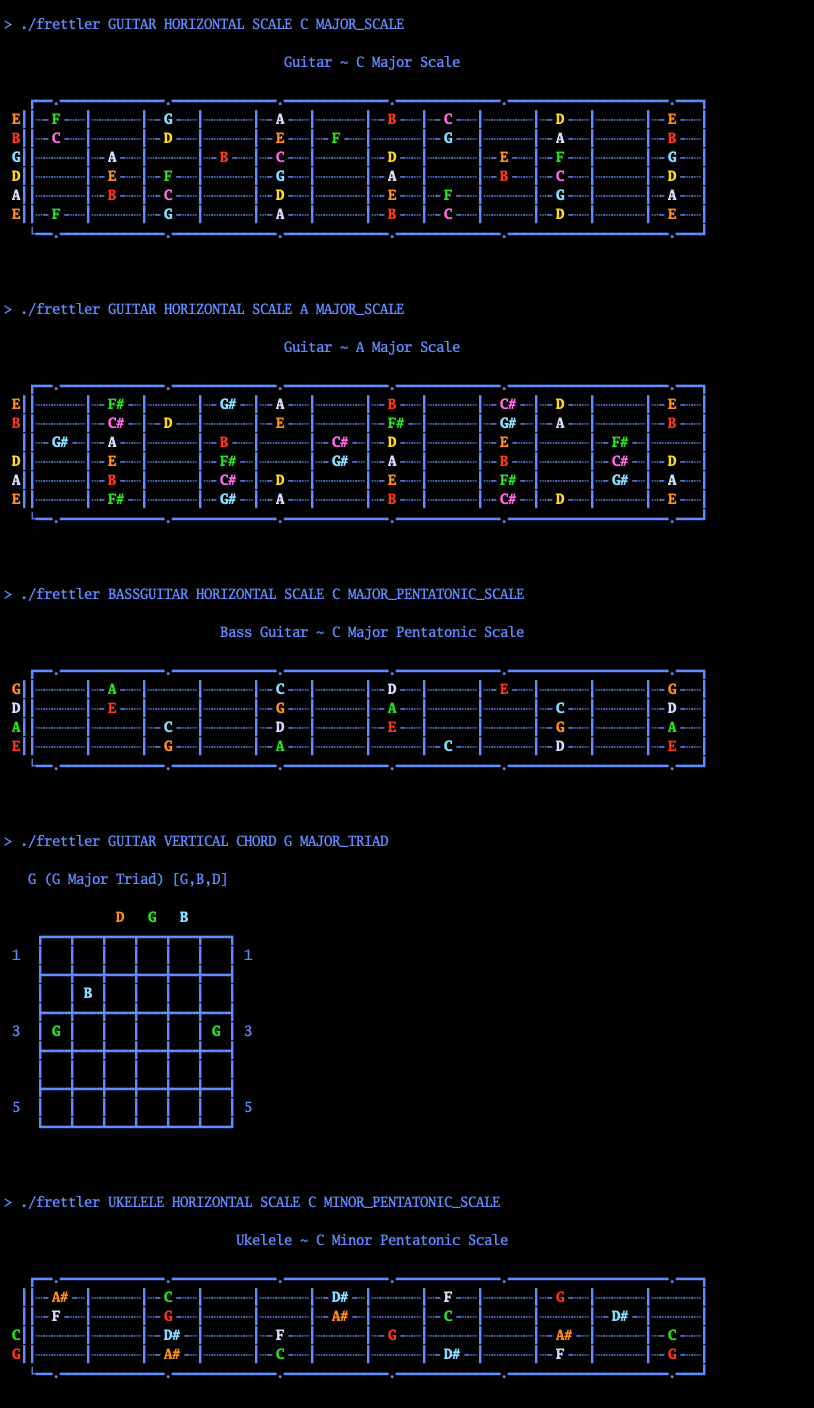
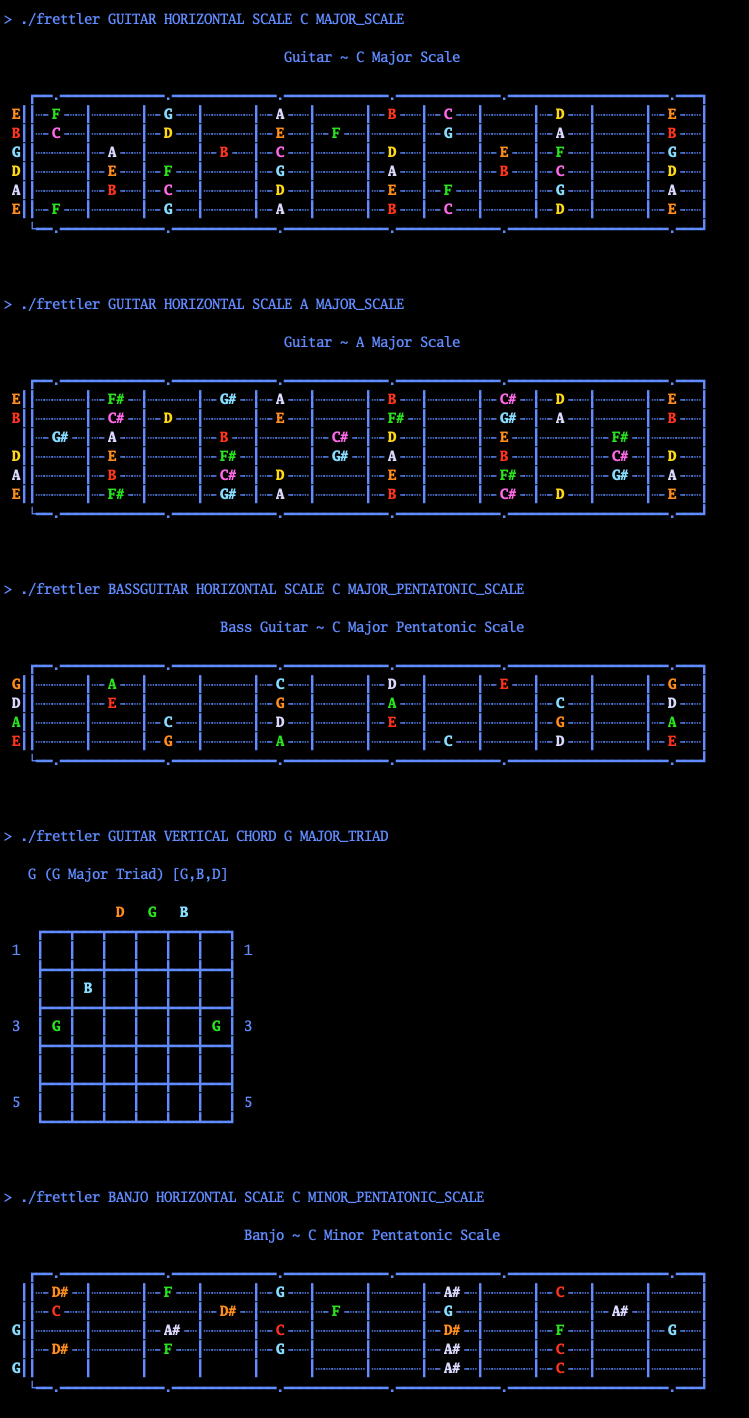
Readme and image

Changed region(s): [[0.0, 0.0, 0.9519, 0.375], [0.0, 0.4062, 0.9519, 0.8125], [0.0, 0.8438, 0.9519, 1.0]]

diff --git a/README.md b/README.md
@@ -25,9 +25,8 @@ Run it using the provided shell wrapper, frettler, ie :
 
 ```
 
-Need to use drop D tuning? just use the optional strings argument '-s D,A,D,G,B,E'
-
-Add the optional chords argument '-c' and frettler will calculate the chords in that key and display each using the VERTICAL chord view.
+- Need to use drop D tuning? just use the optional '--strings/-s' argument '-s D,A,D,G,B,E'
+- Add the optional chords argument '--chords/-c' and frettler will calculate the chords in that key and display each using the VERTICAL chord view.
 
 You can use the strings argument to use any number of strings and using any tuning. 
 To make that easier for say ukelele players, frettler has several alternative instruments, which are
@@ -39,12 +38,14 @@ simply conveniences to avoid having to keep on using the strings argument. ie in
 - MANDOLIN
 - BANJO
 
-Yeah, about that last one - frettler assumes every banjo has equal length strings. The shortened fifth string on most standard banjos is somethng I need to work
-out how to handle. Watch this space.
+(The default BANJO will assume the fifth string starts at the sixth fret - if you want the display for a banjo having all strings full length,
+use the GUITAR with --strings A,B,C,etc. The various instruments, banjo excepted, are just conveniences to avoid using GUITAR with --strings each time.
+To frettler, a fretted instrument is a fretted instrument at the end of the day.)
 
 The chord calculation used in the VERTICAL view is definately a work in progress. It appears to work for standard six string guitar, open string chords, but for anything else,
 take the chord fingerings calculated with a pinch of salt. I already know its calculation for C Major with a seven string guitar is a bit out of whack, 
-and that is probably an indication that it will fall short elsewhere.
+and that is probably an indication that it will fall short elsewhere. Any and all contributions to the rules needed to select the appropriate frets for a chord are welcomed.
+I think it needs to consider the chord interval progression to the higher string when selecting each strings fret candidate? 
 
 Here are some examples :
 
@@ -53,9 +54,6 @@ Here are some examples :
 
 NOTE: the VERTICAL display of SCALE is TBD at this time.
 
-NOTE: the CLI arguments are handled by the Java framework, picocli, added to the codebase in the space of one evening (after actually practising guitar for 2 hours!),
-as well as the maven fat jar executable generation and the maven wrapper for building, and the bash wrappers. 
-This will all no doubt go through some further refinements soon to make it easier to use!
 
 ### Tab Completion
 If you use bash as your shell, frettler can output a tab completion script to use. Just use the following :
@@ -65,22 +63,22 @@ source <(./frettler COMPLETIONS)
 ```
 
 ### Programmatically
-If you want to you can write your own Main class and create a Guitar object, create a Scale or Chord object, create a Guitar and a view for that Guitar
-and then instruct the View to display your chord or object. The API is pretty straightfoward I think, and defaults safely to a standard tuning EADGBE six 
-string guitar etc
+If you want to you can write your own Main class and create one of the FrettedInstrument subtypes, create a Scale or Chord object, create a view for your instrument
+and then instruct the view to display your chord or object. The API is pretty straightfoward I think, and defaults standard tuning for each type of instrument.
+
 Have a look at the GuitarCommand for some examples of usage, look at the constructors of the various classes such as Guitar, Scale, Chord and the ChordView and 
-GuitarView classes, and their public methods.
+FretboardView classes, and their public methods.
 
 ## Engine
 The engine can generate Lists of notes that represent given scales, and can calculate the chords within that scale.
-The engine knows nothing about a guitar, it simply applies music theory to generate Java lists of the notes in scales and chords.
+The engine knows nothing about an instrument, it simply applies music theory to generate Java lists of the notes in scales and chords.
 
 
 ## View
-Currently only console views, each constructed with a Guitar, which take the scale and chord constructs from the engine, and render them
-on that guitars fretboard, up to the 12th fret.
+Currently only console views, each constructed with a FrettedInstrument, which take the scale and chord constructs from the engine, and render them
+on that instruments fretboard, up to the 12th fret.
 
-Both the GuitarView and the ChordView can display the notes or intervals with unique ANSI colours, if you are
+Both the views can display the notes or intervals with unique ANSI colours, if you are
 either running from the command line and using an ANSI colour friendly terminal, or in Eclipse using an ANSI Console
 plugin (goto to Eclipse Marketplace and search for 'ANSI console').
 
@@ -90,7 +88,7 @@ and easily see the patterns.
 The ChordView now calculates the open string fingering for a chord, but can still display all occurences using an alternate method.
 
 ## Caveats
-This is a work in progress.
+This is a work in progress!
 
 ### Music theory
 Prior to writing this app, my knowledge of music theory was pretty rudimentary. Still is to be honest.
